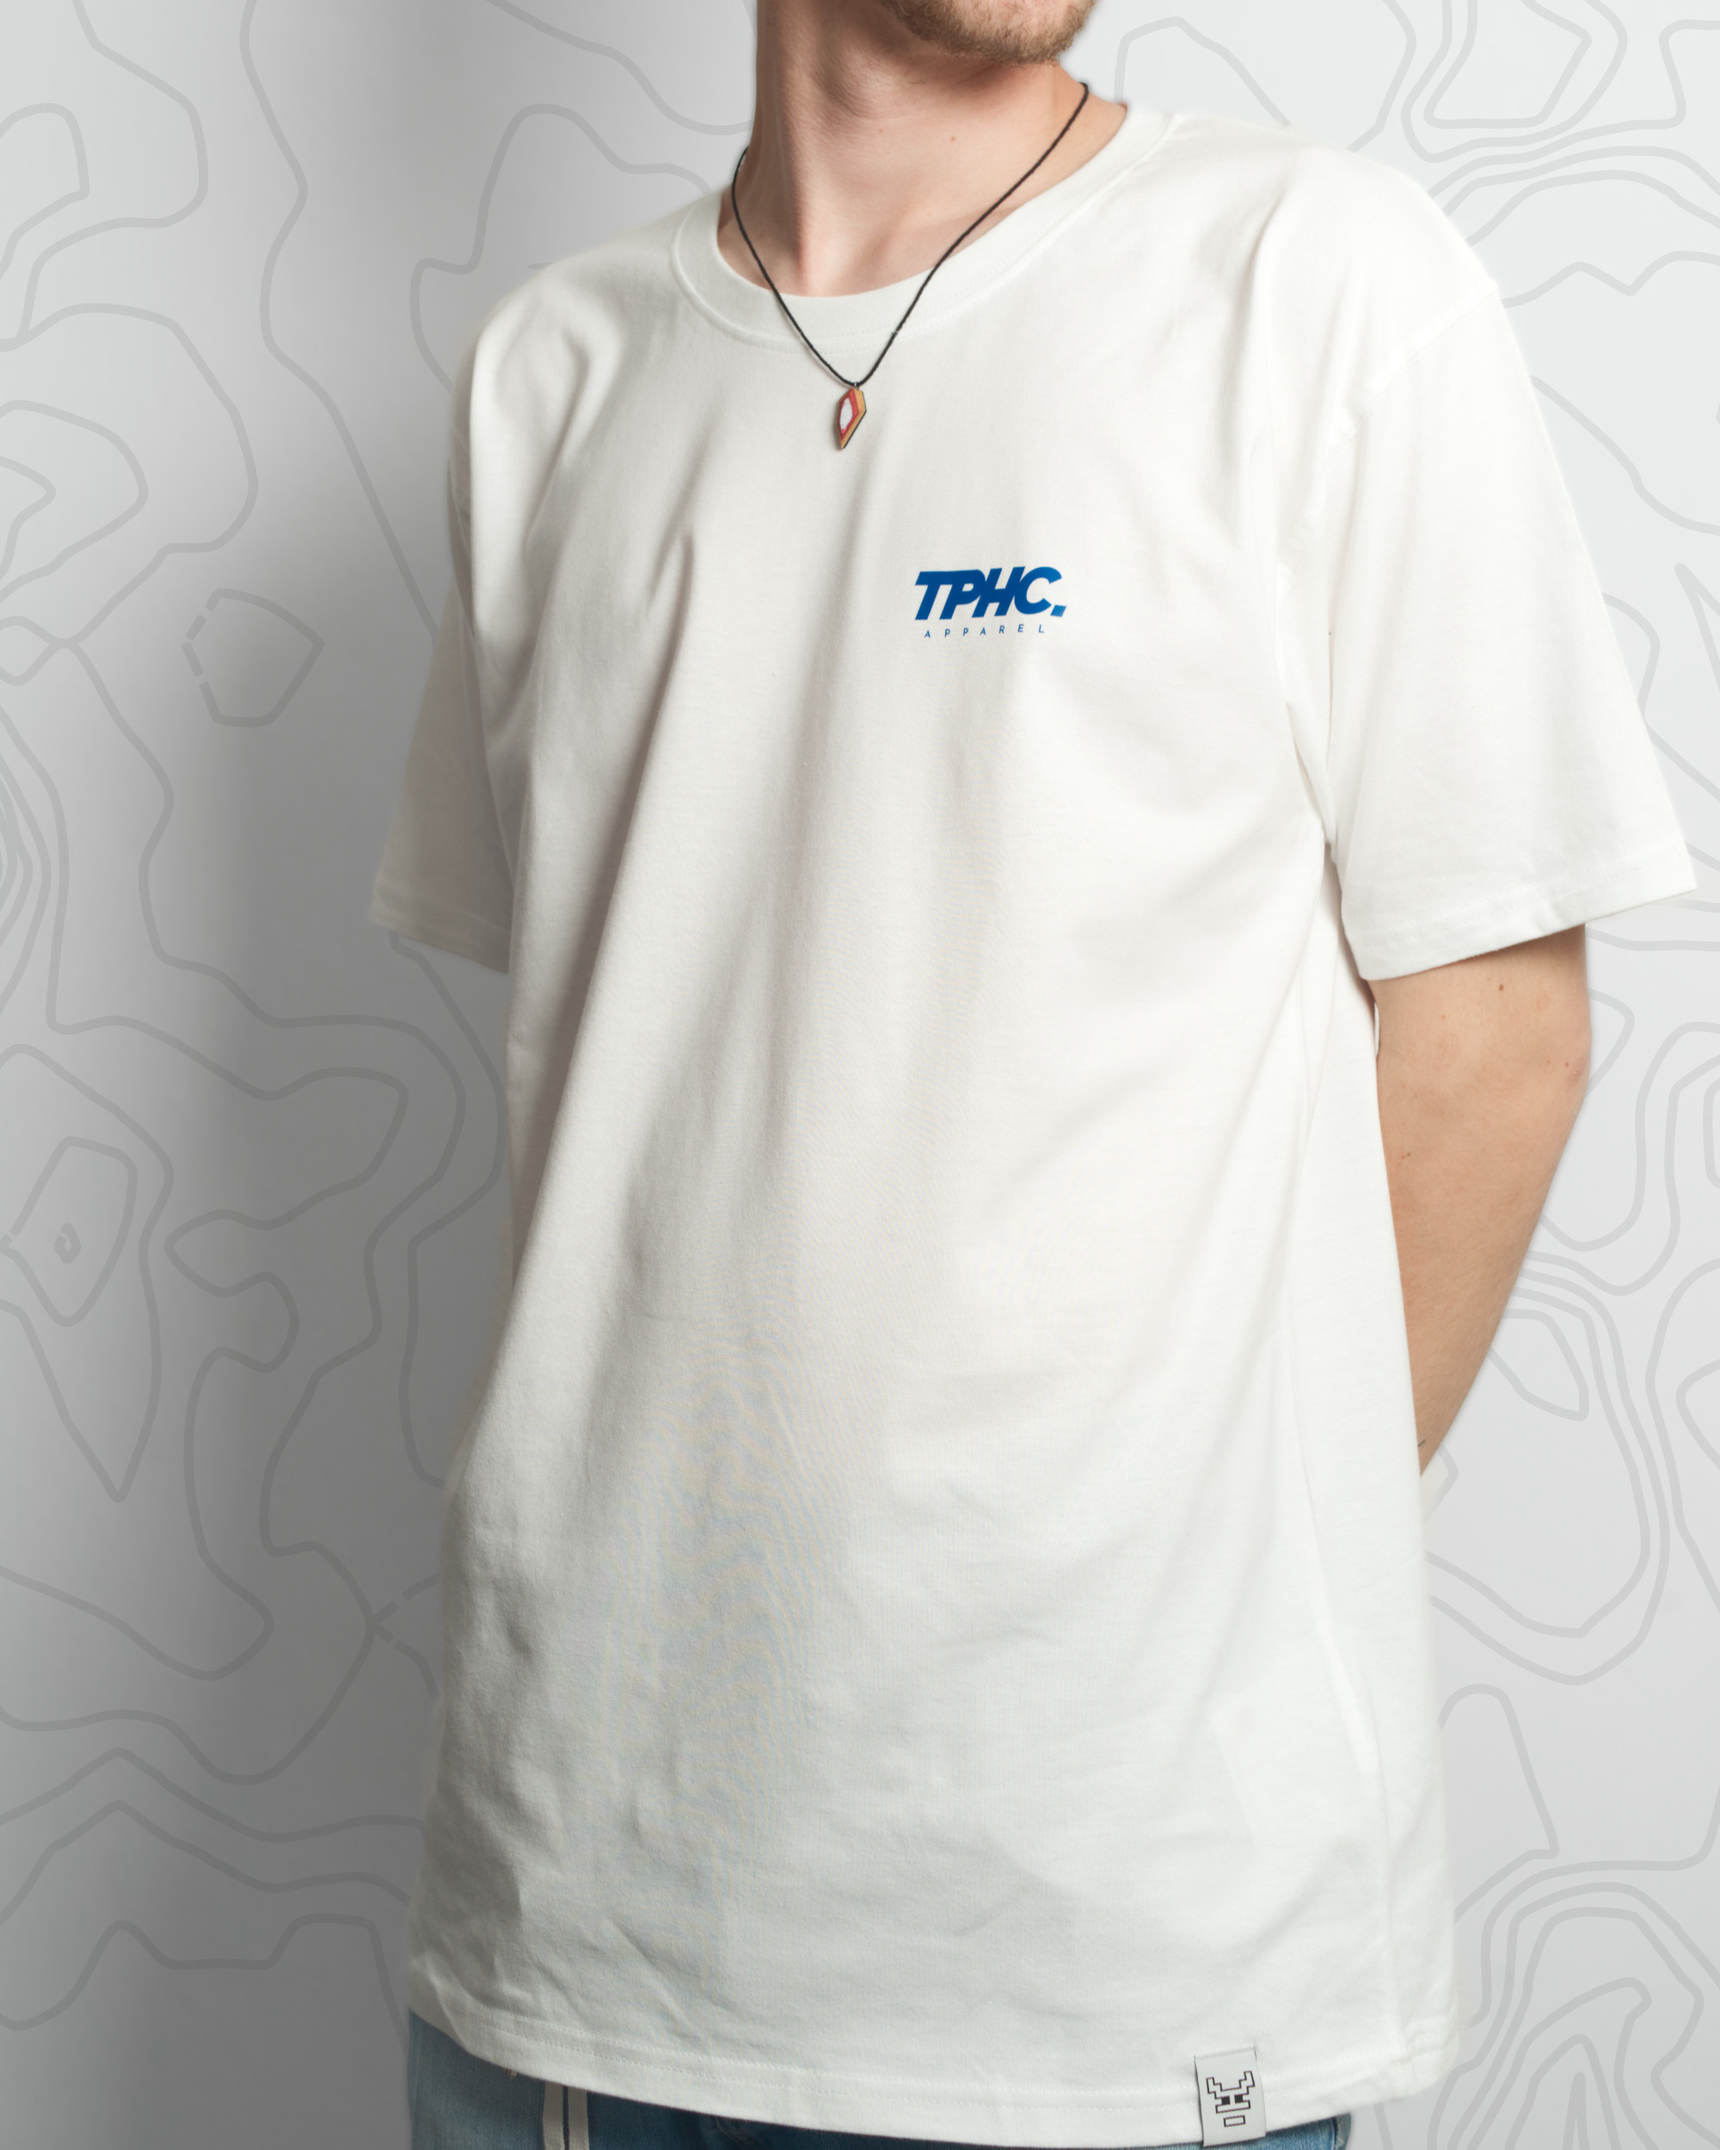
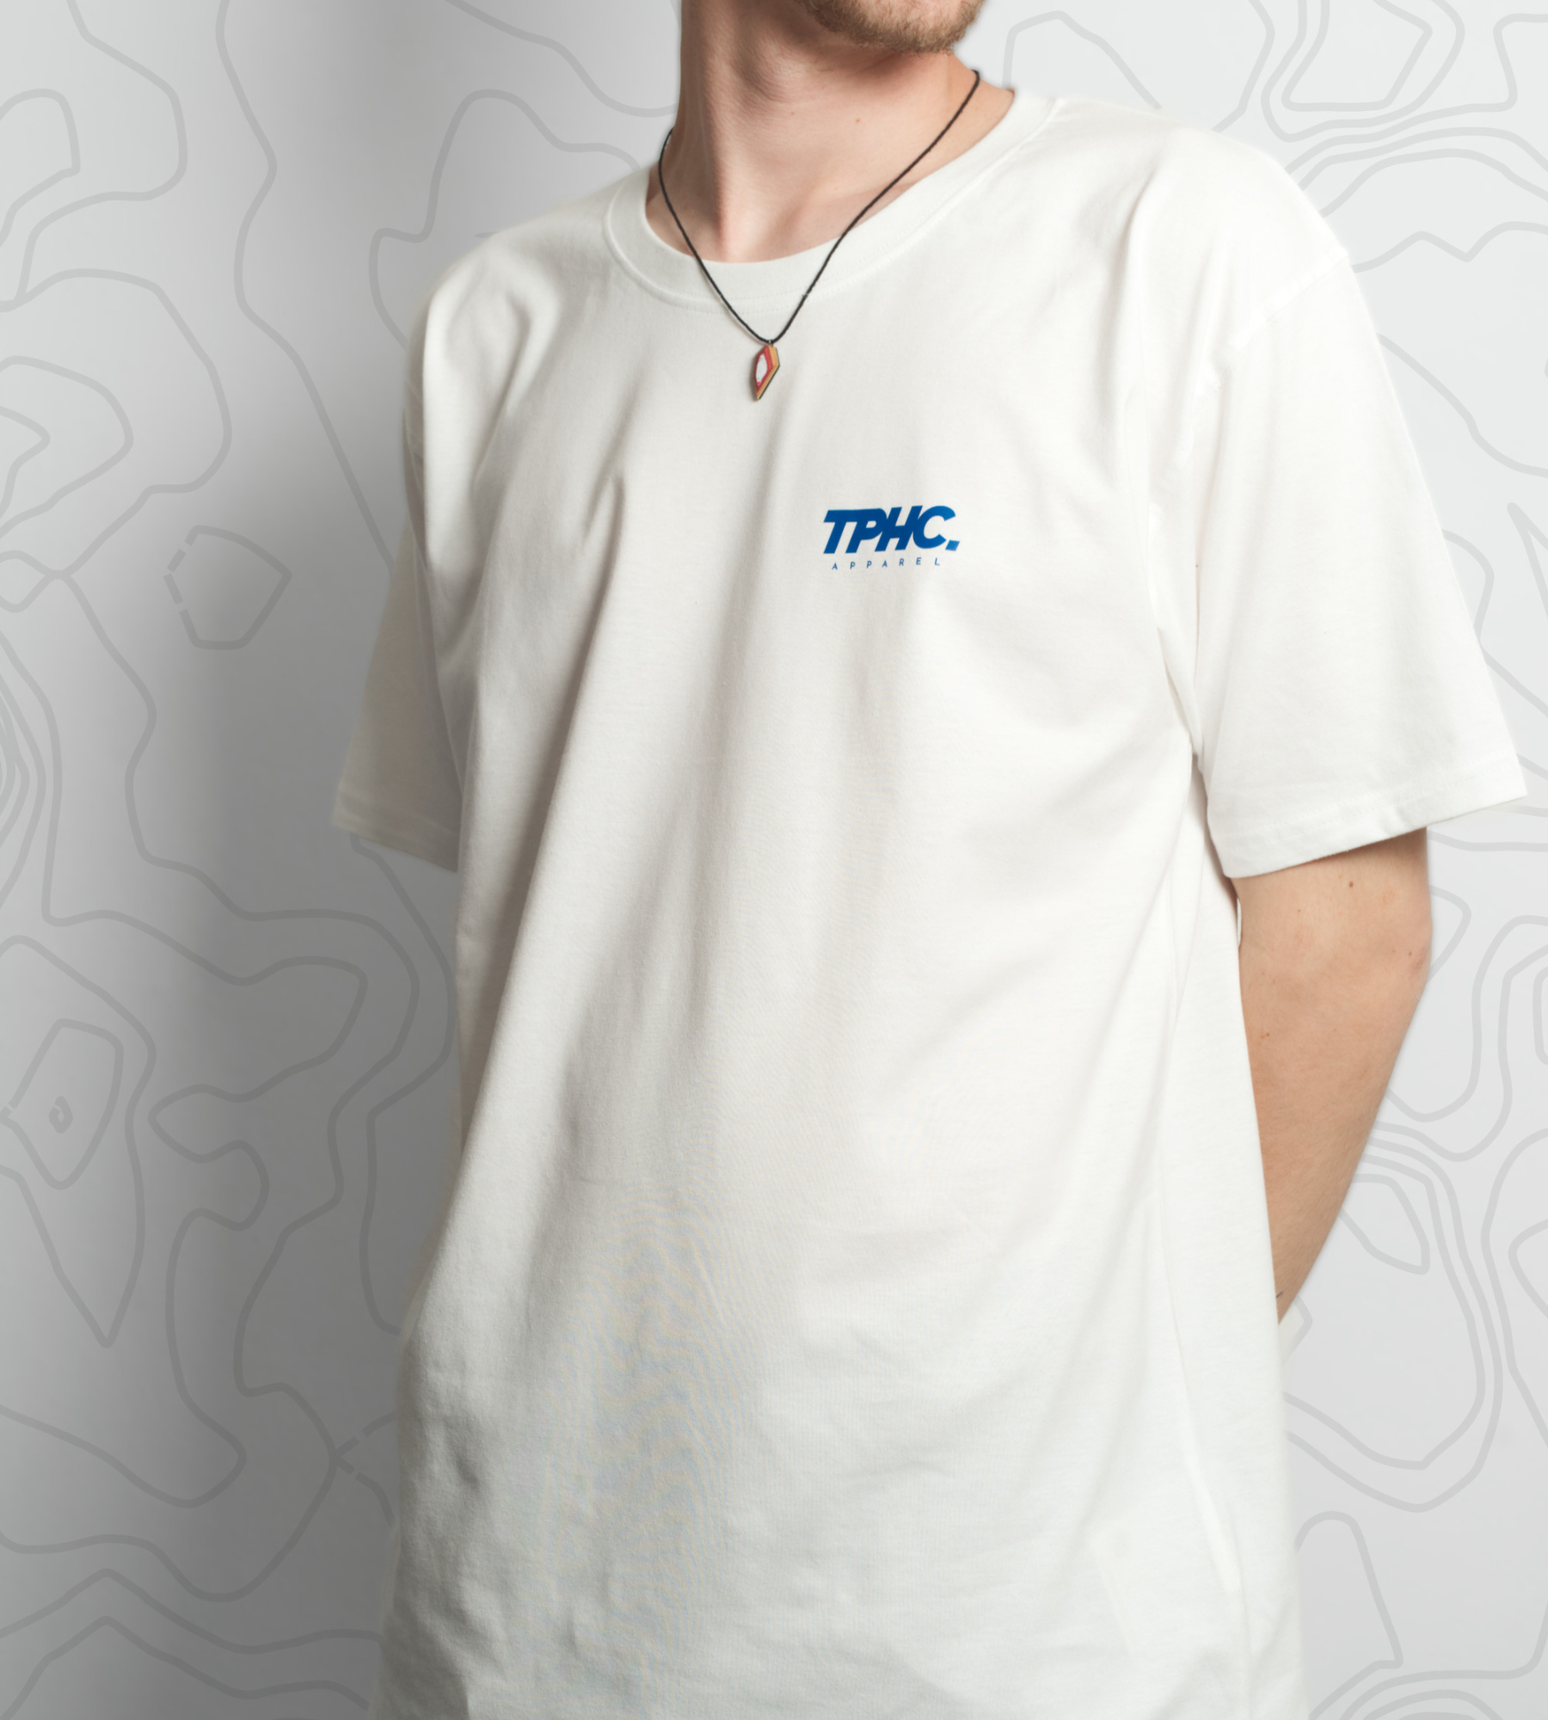
changed aspect ratio of product preview picture and some other CSS adjustments

diff --git a/shop/css/partials/main.css b/shop/css/partials/main.css
@@ -469,25 +469,6 @@ div.shop a.product:nth-of-type(4n+1) {
 
 /* preview section */
 
-div.preview {
-  max-width: 70%;
-  width: fit-content;
-  height: calc(100vh - 130px);
-  width: calc((100vh - 130px) * .8);
-  position: relative;
-  position: sticky;
-  top: 130px;
-}
-
-div.preview div.product_big {
-  width: auto;
-  height: calc(100vh - 130px);  
-}
-
-.preview_slide a {
-  position: absolute;
-}
-
 div.preview div.product_big img {
   width: auto;
   height: calc(100vh - 130px);
@@ -596,8 +577,6 @@ article.product_content a.button {
   padding: 10px 24px;
   margin-bottom: 10px;
   box-sizing: border-box;
-  width: 100%;
-  max-width: 90%;  
 }
 
 
@@ -614,11 +593,11 @@ article.product_content a.button {
 
 }
 
-@media screen and (max-width: 1110px) {
+@media screen and (max-width: 1030px) {
 
-  section.sitecontent.flex {
+  /* section.sitecontent.flex {
     display: block;
-  }
+  } */
 
   div.preview {
     width: 100%;
@@ -635,7 +614,7 @@ article.product_content a.button {
     width: calc(100% - 80px);
     padding: 0 40px;
     margin-left: 0;
-    padding-bottom: 60px;
+    padding-bottom: 140px;
   }
 
   article.product_content h6,
@@ -646,7 +625,6 @@ article.product_content a.button {
 
   article.product_content a.shipping {
     justify-content: flex-start;
-    margin-left: 40px;
   }
 
   article.product_content a.button {

diff --git a/shop/css/partials/product.css b/shop/css/partials/product.css
@@ -2,10 +2,21 @@
 /* PRODUCT */
 /* ======= */
 
-.product .product_preview_slide {
+div.preview {
+  max-width: 70%;
+  width: fit-content;
+  height: calc(100vh - 130px);
+  width: calc((100vh - 130px) * .9);
   position: relative;
-  height: calc(100vh - var(--headerandbanner_height));
-  max-width: calc((100vh - var(--headerandbanner_height)) * .8);
+}
+
+
+.product .product_preview_slide {
+  position: sticky;
+  top: var(--header_height);
+  margin-top: calc(var(--header_height) * -1);
+  height: calc(100vh - var(--header_height));
+  max-width: calc((100vh - var(--header_height)) * .9);
 }
 
 .product .product_preview_slide .splide__slide {
@@ -13,8 +24,8 @@
 }
 
 .product .product_preview_slide .splide__slide img {
-  height: calc(100vh - var(--headerandbanner_height));
-  width: calc((100vh - var(--headerandbanner_height)) * .8);
+  height: calc(100vh - var(--header_height));
+  width: calc((100vh - var(--header_height)) * .9);
 }
 
 .product_preview_progress_bar {

diff --git a/shop/js/main.js b/shop/js/main.js
@@ -26,6 +26,7 @@ document.addEventListener('DOMContentLoaded', function(event) {
 
   const updateCSSvars = function() {
     document.documentElement.style.setProperty( '--header_height', header_height + 'px' );
+    document.documentElement.style.setProperty( '--banner_height', sitebanner_height + 'px' );
     document.documentElement.style.setProperty( '--headerandbanner_height', header_height + sitebanner_height + 'px' );
     document.documentElement.style.setProperty( '--footer_height', footer_height + 'px' );
     document.documentElement.style.setProperty( '--content_height', contentHeight + 'px' );
@@ -56,7 +57,7 @@ document.addEventListener('DOMContentLoaded', function(event) {
   // SLIDERS
   let ProductPreviewSlide = new Splide( '.product_preview_slide',{
     autoWidth :true,
-    height    :'calc(100vh - var(--headerandbanner_height))',
+    height    :'calc(100vh - var(--header_height))',
     // direction :'ttb',
     perPage   :1,
     pagination:false,

diff --git a/shop/products/holo-shirt-white-blue.html b/shop/products/holo-shirt-white-blue.html
@@ -100,11 +100,6 @@
                             </a>
                             <img src="/shop/images/products/shirts/holo_blue_3.jpg" alt="Holo Shirt - white / blue Bild 3">
                         </li>
-                        <li class="splide__slide">
-                            <a class="mag" data-fancybox="ProductPreview" href="/shop/images/products/colors/white.jpg">
-                            </a>
-                            <img src="/shop/images/products/colors/white.jpg" alt="weiß Farbe">
-                        </li>
                       </ul>
                     </div>
                 </div>

diff --git a/shop/css/partials/footer.css b/shop/css/partials/footer.css
@@ -126,7 +126,7 @@ footer.sitefooter nav.links a {
 }
 
 footer.sitefooter nav.links:first-of-type {
-  margin-left: 30%;
+  margin-left: auto;
 }
 
 /* Hover animation */
@@ -163,12 +163,7 @@ footer.sitefooter a:hover:after {
 }
 
 
-/* ------ */
-
-
 /* RESPONSIVE */
-
-
 
 @media screen and (max-height: var(--footer_height)) {
 
@@ -190,6 +185,10 @@ footer.sitefooter a:hover:after {
 
   footer.sitefooter nav.links:first-of-type {
     margin-left: auto;
+  }
+
+  a.rounded_logo {
+    right: -12px;
   }
 
 }

diff --git a/shop/css/partials/siteheader.css b/shop/css/partials/siteheader.css
@@ -53,6 +53,8 @@ a.logo {
     align-items: center;
     justify-content: center;
     color: #fff;
+    position: relative;
+    z-index: 1;
   }
   
   .sitebanner span {
